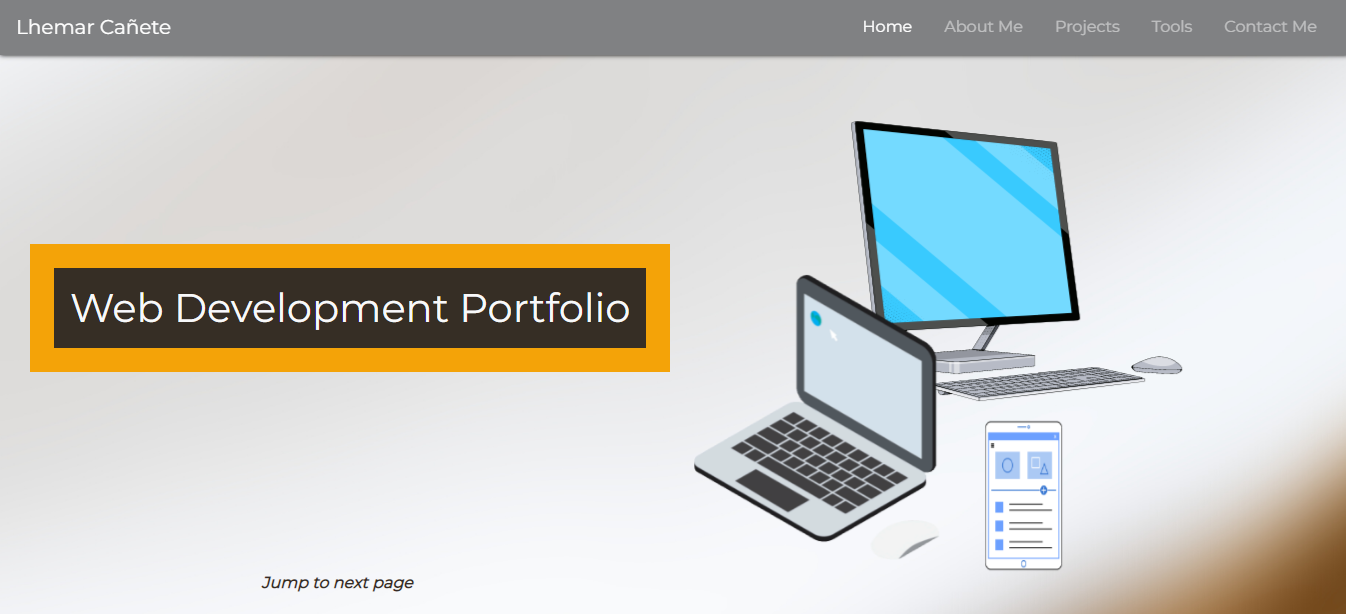
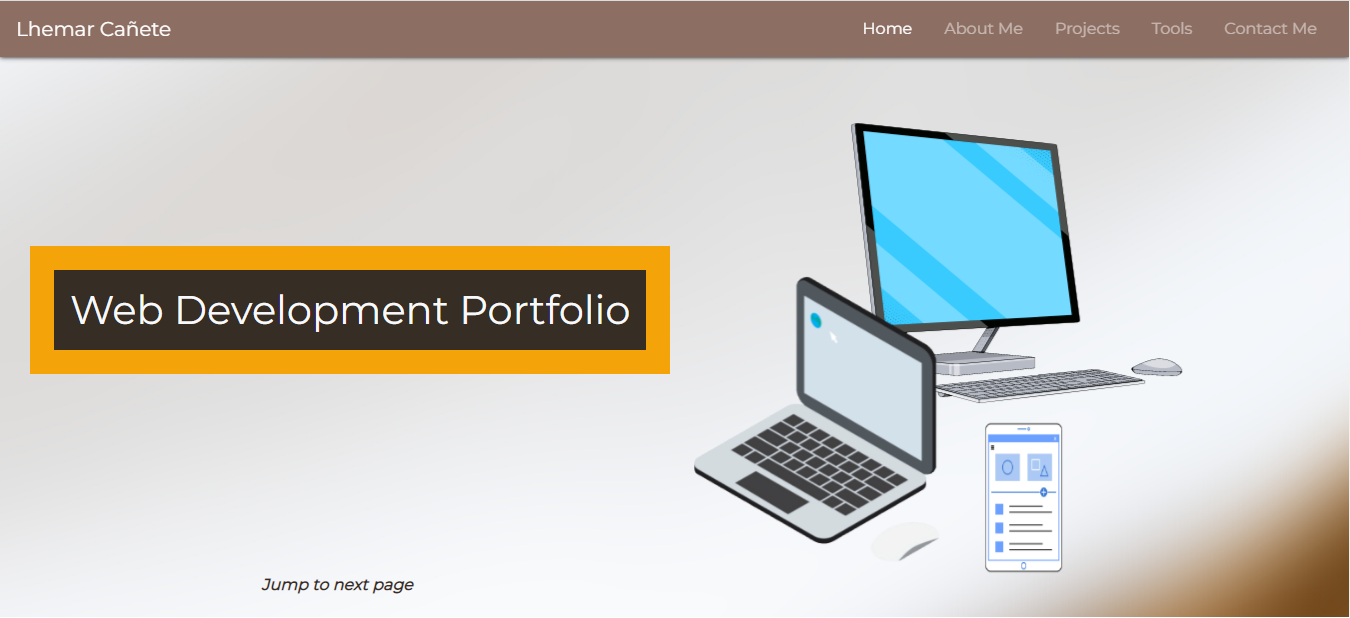
Added capstone project caodes

diff --git a/index.html b/index.html
@@ -42,10 +42,10 @@
 		        <a class="nav-link" href="#project-link">Projects</a>
 		      </li>
 		      <li class="nav-item px-2">
-		        <a class="nav-link" href="#">Tools</a>
+		        <a class="nav-link" href="#tools-link">Tools</a>
 		      </li>
 		      <li class="nav-item px-2">
-		        <a class="nav-link" href="#">Contact Me</a>
+		        <a class="nav-link" href="#contant-link">Contact Me</a>
 		      </li>
 		    </ul>
 		  </div>
@@ -65,7 +65,7 @@
 		<div class="container-fluid jump-div">
 			<div class="row text-center font-weight-bold font-italic">
 				<div class="col-12 col-md-8 col-lg-6">
-					<a href="#" id="jump">Jump to next page </a> <!-- href ???????? -->
+					<a href="#carousel-div" id="jump">Jump to next page </a> 
 				</div>
 			</div>
 		</div>
@@ -73,7 +73,91 @@
 		<!-- End of Front Page -->
 
 		<!-- Start of Carousel -->
-
+			<div class="container-fluid min-vh-md-100 border border-dark py-3 px-3" >
+		 	<div class="row">
+			<div class="col-12" id="carousel-div">
+				<div id="carouselExampleCaptions" class="carousel slide" data-ride="carousel">
+				  <ol class="carousel-indicators">
+				    <li data-target="#carouselExampleCaptions" data-slide-to="0" class="active"></li>
+				    <li data-target="#carouselExampleCaptions" data-slide-to="1"></li>
+				    <li data-target="#carouselExampleCaptions" data-slide-to="2"></li>
+				    <li data-target="#carouselExampleCaptions" data-slide-to="3"></li>
+				    <li data-target="#carouselExampleCaptions" data-slide-to="4"></li>
+				  </ol>
+				  <div class="carousel-inner">
+				    <div class="carousel-item active">
+				      <img src="https://place-puppy.com/500x300" class="d-block w-100 img-fluid" alt="...">
+				      <div class="carousel-caption ">
+				        <p class="car-textsm d-block d-md-none">Are you planning to have your own website?</p>
+				        <p class="car-text d-none d-md-block">Are you planning to have your own website?</p>
+				        <p class="d-none d-md-block">*</p>
+				        <p class="d-none d-md-block">*</p>
+				        <p class="d-none d-md-block">*</p>
+				        <p class="d-none d-lg-block">*</p>
+				        <p class="d-none d-lg-block">*</p>
+				      </div>
+				    </div>
+				    <div class="carousel-item">
+				      <img src="https://place-puppy.com/500x300" class="d-block w-100 img-fluid" alt="...">
+				      <div class="carousel-caption ">
+				        <p class="car-textsm d-block d-md-none">If Yes, wonderful! But are you quite sure what to consider of having so?</p>
+				        <p class="car-text d-none d-md-block">If Yes, wonderful! But are you quite sure what to consider of having so?</p>
+				        <p class="d-none d-md-block">*</p>
+				        <p class="d-none d-md-block">*</p>
+				        <p class="d-none d-md-block">*</p>
+				        <p class="d-none d-lg-block">*</p>
+				        <p class="d-none d-lg-block">*</p>
+				      </div>
+				    </div>
+				    <div class="carousel-item">
+				      <img src="https://place-puppy.com/500x300" class="d-block w-100 img-fluid" alt="...">
+				      <div class="carousel-caption ">
+				        <p class="car-textsm d-block d-md-none">If not, you are certainly in the right site! Let me help you with that.</p>
+				        <p class="car-text d-none d-md-block">If not, you are certainly in the right site! Let me help you with that.</p>
+				        <p class="d-none d-md-block">*</p>
+				        <p class="d-none d-md-block">*</p>
+				        <p class="d-none d-md-block">*</p>
+				        <p class="d-none d-lg-block">*</p>
+				        <p class="d-none d-lg-block">*</p>
+				      </div>
+				    </div>
+				    <div class="carousel-item">
+				      <img src="https://place-puppy.com/500x300" class="d-block w-100 img-fluid" alt="...">
+				      <div class="carousel-caption ">
+				        <p class="car-textsm d-block d-md-none">To make your dream website, it must be: Well-designed and functional, easy to use, Optimized for mobile, and most importantly ...</p>
+				        <p class="car-text d-none d-md-block">To make your dream website, it must be: Well-designed and functional, easy to use, Optimized for mobile, and most importantly...</p>
+				        <p class="d-none d-lg-block">*</p>
+				        <p class="d-none d-lg-block">*</p>
+				        <p class="d-none d-lg-block">*</p>
+				        <p class="d-none d-lg-block">*</p>
+				        <p class="d-none d-lg-block">*</p>
+				      </div>
+				    </div>
+				    <div class="carousel-item">
+				      <img src="https://place-puppy.com/500x300" class="d-block w-100 img-fluid" alt="...">
+				      <div class="carousel-caption ">
+				        <p class="car-textsm d-block d-md-none">An awesome Web Developer ! Please do take the time to read my portfolio, looking forward for you!</p>
+				        <p class="car-text d-none d-md-block">An awesome Web Developer ! Please do take the time to read my portfolio, looking forward for you!</p>
+				        <p class="d-none d-lg-block">*</p>
+				        <p class="d-none d-lg-block">*</p>
+				        <p class="d-none d-lg-block">*</p>
+				        <p class="d-none d-lg-block">*</p>
+				        <p class="d-none d-lg-block">*</p>
+				      </div>
+				    </div>
+				  </div>
+				  <button class="carousel-control-prev" type="button" data-target="#carouselExampleCaptions" data-slide="prev">
+				    <span class="carousel-control-prev-icon" aria-hidden="true"></span>
+				    <span class="sr-only">Previous</span>
+				  </button>
+				  <button class="carousel-control-next" type="button" data-target="#carouselExampleCaptions" data-slide="next">
+				    <span class="carousel-control-next-icon" aria-hidden="true"></span>
+				    <span class="sr-only">Next</span>
+				  </button>
+				</div>
+			</div>							
+			</div>
+			</div>
 		<!-- End of Carousel -->
 
 		<!-- Start of About Me -->
@@ -86,15 +170,10 @@
 					<div class="d-flex flex-column justify-content-center align-items-center col-sm-6 text-center">
 						<img class="img-fluid" src="./images/profile2.jpeg" id="profile">
 						<h3 class="mt-3">Lhemar Cañete</h3>
-						<h4>Aspiring Fullstack Developer</h4>
+						<h4>Fullstack Developer</h4>
 					</div>	
 					<div class="d-flex flex-column justify-content-center align-items-center col-sm-6 p-3 p-md-5 text-center">
-						<p class="text-justify">Lorem ipsum dolor sit amet, consectetur adipisicing elit, sed do eiusmod
-						tempor incididunt ut labore et dolore magna aliqua. Ut enim ad minim veniam,
-						quis nostrud exercitation ullamco laboris nisi ut aliquip ex ea commodo
-						consequat. Duis aute irure dolor in reprehenderit in voluptate velit esse
-						cillum dolore eu fugiat nulla pariatur. Excepteur sint occaecat cupidatat non
-						proident, sunt in culpa qui officia deserunt mollit anim id est laborum.</p>
+						<p class="text-justify">I am a Bachelor of Science in Mathematics degree holder. I have been working for 5 years in the Retail, Logistics and Cargo-handling Industry. But, I have been always fascinated with coding since collage days. And so, I have decided to take up the challenge to become a Web Developer. I believe there is never to late for things you dream, you aspire. Zuitt Bootcamp has helped me in achieving this great feat, with Zuitt's intensive training, I can perform outstandingly in delivering your desired fully-functional and responsive Website.</p>
 					</div>
 				</div>	
 			</div>
@@ -116,10 +195,8 @@
 
 				    <h5 class="card-title mt-3 mb-4 font-weight-bold">Capstone 1</h5>
 				    <h6 class="card-subtitle mb-2 text-muted font-weight-bold">Front-End Project</h6>
-				    <p class="card-text">
-				    	Lorem ipsum dolor sit amet, consectetur adipisicing elit, sed do eiusmod
-				    	tempor incididunt ut labore et dolore magna aliqua. Ut enim ad minim veniam,
-				    	quis nostrud exercitation ullamco laboris nisi ut aliquip ex ea commodo
+				    <p class="card-text text-justify">
+				    	For this project, I am brought into use our bootcamp lessons of CSS external styling and Bootstrap utilities and components. You may find here my designing creativity. With our collaboration, let make your dream website come true!
 				    </p>
 				  </div>
 				</div>
@@ -129,11 +206,12 @@
 				<div class="card col-xl-4 mb-5 mb-xl-0 mr-xl-5 ml-xl-5 project-div2 py-3">
 				  <div class="card-body project-div3 text-center">
 
-				  	<img class="img-fluid" src="./images/cap1.png">
+				  	<img class="img-fluid" src="https://getbootstrap.com/docs/4.0/examples/screenshots/jumbotron.png
+">
 
 				    <h5 class="card-title mt-3 mb-4 font-weight-bold">Capstone 2</h5>
 				    <h6 class="card-subtitle mb-2 text-muted font-weight-bold mb-5">Back-End Project</h6>
-				    <p class="card-text">
+				    <p class="card-text text-justify">
 				    	In Progress
 				    </p>
 				  </div>
@@ -144,11 +222,11 @@
 				<div class="card col-xl-4 mb-5 mb-xl-0 project-div2 py-3">
 				  <div class="card-body project-div3 text-center">
 
-				  	<img class="img-fluid" src="./images/cap1.png">
+				  	<img class="img-fluid" src="https://getbootstrap.com/docs/4.0/examples/screenshots/carousel.png">
 
 				    <h5 class="card-title mt-3 mb-4 font-weight-bold">Capstone 3</h5>
 				    <h6 class="card-subtitle mb-2 text-muted ont-weight-bold mb-5">Fullstack Project</h6>
-				    <p class="card-text">
+				    <p class="card-text text-justify">
 				    	In Progress
 					    </p>
 				  </div>
@@ -160,8 +238,8 @@
 		<!-- End of Projects -->
 
 		<!-- Start of Tools -->
-		<div class="container-fluid text-center mb-2 mb-md-5">
-			<div class="d-flex justify-content-center div-tools">
+		<div class="container-fluid text-center mb-2 mb-md-5" id="tools-link">
+			<div class="d-flex justify-content-center div-tools pt-5">
 			<h3 class="tools px-5">Core Tools</h3>
 			</div>
 
@@ -179,31 +257,101 @@
 		<!-- End of Tools -->
 
 		<!-- Start of other tools -->
-		<div class="container-fluid text-center">
+		<div class="container-fluid text-center mb-1">
 			<div class="d-flex justify-content-center div-tools">
 			<h3 class="tools px-5">Other Tools</h3>
 			</div>
 
-			<div class="d-flex flex-row flex-md-columnjustify-content-center d-block d-sm-none ctools-div">
+			<div class="d-flex flex-row flex-md-column justify-content-center  ctools-div">
 				<div class="mt-3 d-flex flex-column flex-md-row justify-content-md-center">
-					<img class="img-wid2" src="./images/logo-mongodb.png">
-					<img class="img-wid2" src="./images/logo-nodejs.png">
-					<img class="img-wid2" src="./images/logo-expressjs.png">
-					<img class="img-wid2" src="./images/logo-react.png">
-					<img class="img-wid2" src="./images/logo-heroku.png">
+					<img class="img-wid" src="./images/logo-mongodb.png">
+					<img class="img-wid" src="./images/logo-nodejs.png">
+					<img class="img-wid" src="./images/logo-expressjs.png">
+					<img class="img-wid" src="./images/logo-react.png">
+					<img class="img-wid" src="./images/logo-heroku.png">
+				</div>
+				<div  class="mt-3 d-flex flex-column flex-md-row justify-content-md-center">
+					<img class="img-wid" src="./images/logo-git.png">
+					<img class="img-wid" src="./images/logo-sublime-text-3.png">
+					<img class="img-wid" src="./images/logo-postman.png">
+					<img class="img-wid" src="./images/logo-gitlab-ci-cd.png">
 				</div>
 			</div>
-
-			<div class="container-fluid d-flex justify-content-center flex-row justify-content-center ctools-div">
-				<img class="img-wid d-none d-sm-block" src="./images/logo-html5.png">
-				<img class="img-wid d-none d-sm-block" src="./images/logo-css3.png">
-				<img class="img-wid d-none d-sm-block" src="./images/logo-javascript.png">
-			</div>
 		</div>
-
 		<!-- End of other tools -->
 
+		<!-- Start of Forms -->
+  		<div class="container-fluid pb-3 p-md-5" id="contant-link">
+  			<div class="container-fluid mb-4 contact-div" >
+  			<h2 class="text-center" id="contact">Contact Me</h2>
+  			</div>
+  			<div class="container-fluid px-3 px-sm-5">
+	  			<form id="form-div">
+	  			  <div class="form-row">
+	  			    <div class="form-group col-md-6">
+	  			      <label for="inputName4">Full Name</label>
+	  			      <input type="Text" class="form-control" id="inputName4" placeholder="Your Name" required>
+	  			    </div>
+	  			    <div class="form-group col-md-6">
+	  			      <label for="inputEmail4">Email</label>
+	  			      <input type="email" class="form-control" id="inputEmail4" placeholder="email@gmail.com" required>
+	  			    </div>
+	  			  </div>
+	  			  <div class="form-row">
+	  			    <div class="form-group col-md-6">
+	  			      <label for="inputContact4">Contact#</label>
+	  			      <input type="Text" class="form-control" id="inputContact4" placeholder="0900 000 0000">
+	  			    </div>
+	  			    <div class="form-group col-md-6">
+	  			      <label for="exampleFormControlSelect1">Services</label>
+	  			      <select class="form-control" id="exampleFormControlSelect1">
+	  			        <option>Frontend Design</option>
+	  			        <option>Backend Server</option>
+	  			        <option>Fullstack Development</option>
+	  			      </select>
+	  			    </div>
+	  			  </div>
+	  			  <div class="form-group">
+	  			      <label for="exampleFormControlTextarea1">Message</label>
+	  			      <textarea class="form-control" id="exampleFormControlTextarea1" rows="3"></textarea>
+	  			    </div>
+	  			  <button type="submit" class="btn btn-primary px-3 font-weight-bold" data-toggle="modal" data-target="#exampleModal">Send</button>
 
+	  			  <div class="modal fade" id="exampleModal" tabindex="-1" aria-labelledby="exampleModalLabel" aria-hidden="true">
+	  			    <div class="modal-dialog">
+	  			      <div class="modal-content">
+	  			        <div class="modal-header">
+	  			          <h5 class="modal-title text-dark" id="exampleModalLabel">Thank you for contacting us!</h5>
+	  			          <button type="button" class="close" data-dismiss="modal" aria-label="Close">
+	  			            <span aria-hidden="true">&times;</span>
+	  			          </button>
+	  			        </div>
+	  			        <div class="modal-body text-dark">
+	  			          <p>Message Successfully Sent</p>
+	  			        </div>
+	  			        <div class="modal-footer">
+	  			          <button type="button" class="btn btn-secondary" data-dismiss="modal">Close</button>
+	  			        </div>
+	  			      </div>
+	  			    </div>
+	  			  </div>
+	  			</form>
+	  		</div>		
+  		</div>
+		<!-- End of Forms of Forms -->
+
+		<!-- Start of Footer -->
+		<footer class="text-muted px-5 pt-4 pb-1 border border-dark" id="footer">
+			<div class="container-fluid px-5">
+				<p class="float-right">
+					<a href="#frontdiv" class="foot-in">Back to Top</a>				
+				</p>
+				<p class="foot-in">You may contact me at your convenience.</p>
+				<p class="foot-in">My email : lhemarcanete@gmail.com</p>
+				<p class="foot-in">My contact# : 0945-552-9319 (Globe) | 0992-386-9044 (Dito)</p>
+			</div>
+		</footer>
+		<!-- End of Footer -->
 
 
 

diff --git a/style.css b/style.css
@@ -11,7 +11,7 @@ body {
 }	
 
 #nav-bg {
-	background-color: #808183;
+	background-color: #8D6E63;
 	box-shadow: 0 0 5px black;
 }
 
@@ -113,4 +113,42 @@ background-position: 80% 70%;
 	position: relative;
 	bottom: -25px;
 	z-index: 1;
+}
+
+#contact {
+	font-family: 'Tangerine', cursive;
+	font-size: 55px;
+	position: relative;
+	bottom: -38px;
+	z-index: 1;
+}
+
+#form-div {
+	border-style: solid;
+	border-width: 10px;
+	border-color: #362E25;
+	padding: 3rem;
+	background-color: #BCAAA4;
+}
+
+.contact-div {
+	border-bottom-style: solid;
+	border-bottom-width: 2px;
+	border-bottom-color: #F4A308;
+	width: 60vw;
+}
+
+#footer {
+	background-color: #362E25;
+}
+
+.foot-in {
+	color: #F4A308;
+}
+
+.car-text {
+	font-size: 40px;
+}
+.car-textsm {
+	font-size: 18px;
 }
